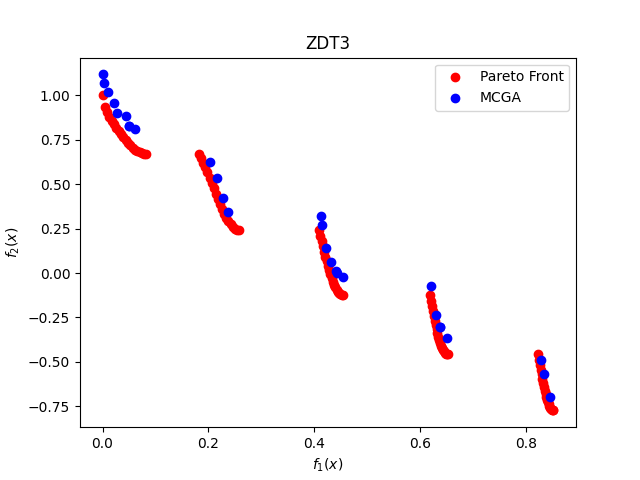
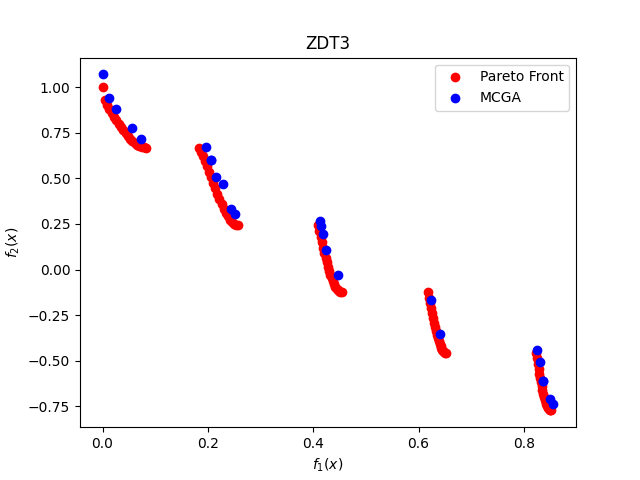
add dtlz test

diff --git a/mcga/model.py b/mcga/model.py
@@ -49,13 +49,15 @@ class MCGA(NSGA2):
         :return: The sectors
         """
 
-        min_polar_objectives = np.min(
-            [member.polar_objective_values for member in population.population], axis=0
-        )[1:]
+        population.to_polar()
 
-        max_polar_objectives = np.max(
-            [member.polar_objective_values for member in population.population], axis=0
-        )[1:]
+        # min_polar_objectives = np.min(
+        #     [member.polar_objective_values for member in population.population], axis=0
+        # )[1:]
+        #
+        # max_polar_objectives = np.max(
+        #     [member.polar_objective_values for member in population.population], axis=0
+        # )[1:]
 
         # create a list of sectors
         sectors_points = []
@@ -63,10 +65,11 @@ class MCGA(NSGA2):
         # divide the 2 * pi radians into num_sectors sectors randomly
         for i in range(self.moop.num_objectives - 1):
             num_sectors = random.randint(
-                2 * self.num_max_sectors // 3, self.num_max_sectors
+                3 * self.num_max_sectors // 4, self.num_max_sectors
             )
-            sector = [random.uniform(max(0, min_polar_objectives[i] - EPSILON),
-                                     min(2 * np.pi, max_polar_objectives[i] + EPSILON)) for _ in range(num_sectors)]
+            # sector = [random.uniform(max(0, min_polar_objectives[i] - EPSILON),
+            #                          min(2 * np.pi, max_polar_objectives[i] + EPSILON)) for _ in range(num_sectors)]
+            sector = [random.uniform(0, 2 * np.pi) for _ in range(num_sectors)]
             sector = sorted(sector)
             sector = np.array(sector)
             sectors_points.append(sector)
@@ -75,12 +78,14 @@ class MCGA(NSGA2):
         # now create the (start, end) tuples for each sector
         for i in range(self.moop.num_objectives - 1):
             sectors.append(
-                [(max(0, min_polar_objectives[i] - EPSILON), sectors_points[i][0])]
+                # [(max(0, min_polar_objectives[i] - EPSILON), sectors_points[i][0])]
+                [(0, sectors_points[i][0])]
                 + [
                     (sectors_points[i][j], sectors_points[i][j + 1])
                     for j in range(len(sectors_points[i]) - 1)
                 ]
-                + [(sectors_points[i][-1], min(2 * np.pi, max_polar_objectives[i] + EPSILON))]
+                # + [(sectors_points[i][-1], min(2 * np.pi, max_polar_objectives[i] + EPSILON))]
+                + [(sectors_points[i][-1], 2 * np.pi)]
             )
 
         # now rotate the sectors to create the offset
@@ -128,7 +133,7 @@ class MCGA(NSGA2):
                     sliced_population[i].append(member)
                     break
             else:
-                print(f"Error: Member {member} not in any sector")
+                print(f"Error: Member {member.polar_objective_values[1:]} not in any sector")
 
         return sliced_population
 

diff --git a/nsga2/member.py b/nsga2/member.py
@@ -24,7 +24,7 @@ class Member(object):
         self.crowding_distance: float = 0.0
 
         global ID
-        self.id = ID * 1000 + random.randint(0, 1000) + 2 * ID + 0.5 * ID**2
+        self.id = ID * 1000 + random.randint(0, 1000) + 2 * ID + 0.5 * ID ** 2
         ID += 5.0
 
     def dominates(self, other):
@@ -89,6 +89,7 @@ class Member(object):
             else:
                 in_this_sector = start <= x < 2 * np.pi or 0 <= x < end - 2 * np.pi
             is_in_bounds = is_in_bounds and in_this_sector
+
         return is_in_bounds
 
     @property
@@ -142,7 +143,7 @@ class Member(object):
 
     def __hash__(self):
         return (
-            hash(str(self.objective_values))
-            + hash(str(self.chromosome))
-            + hash(self.id)
+                hash(str(self.objective_values))
+                + hash(str(self.chromosome))
+                + hash(self.id)
         )

diff --git a/nsga2/population.py b/nsga2/population.py
@@ -30,6 +30,10 @@ class Population(object):
     def copy(self):
         return Population([member.copy() for member in self.population])
 
+    def to_polar(self):
+        for member in self.population:
+            member.to_polar()
+
     def to_cartesian(self):
         for member in self.population:
             member.to_cartesian()
